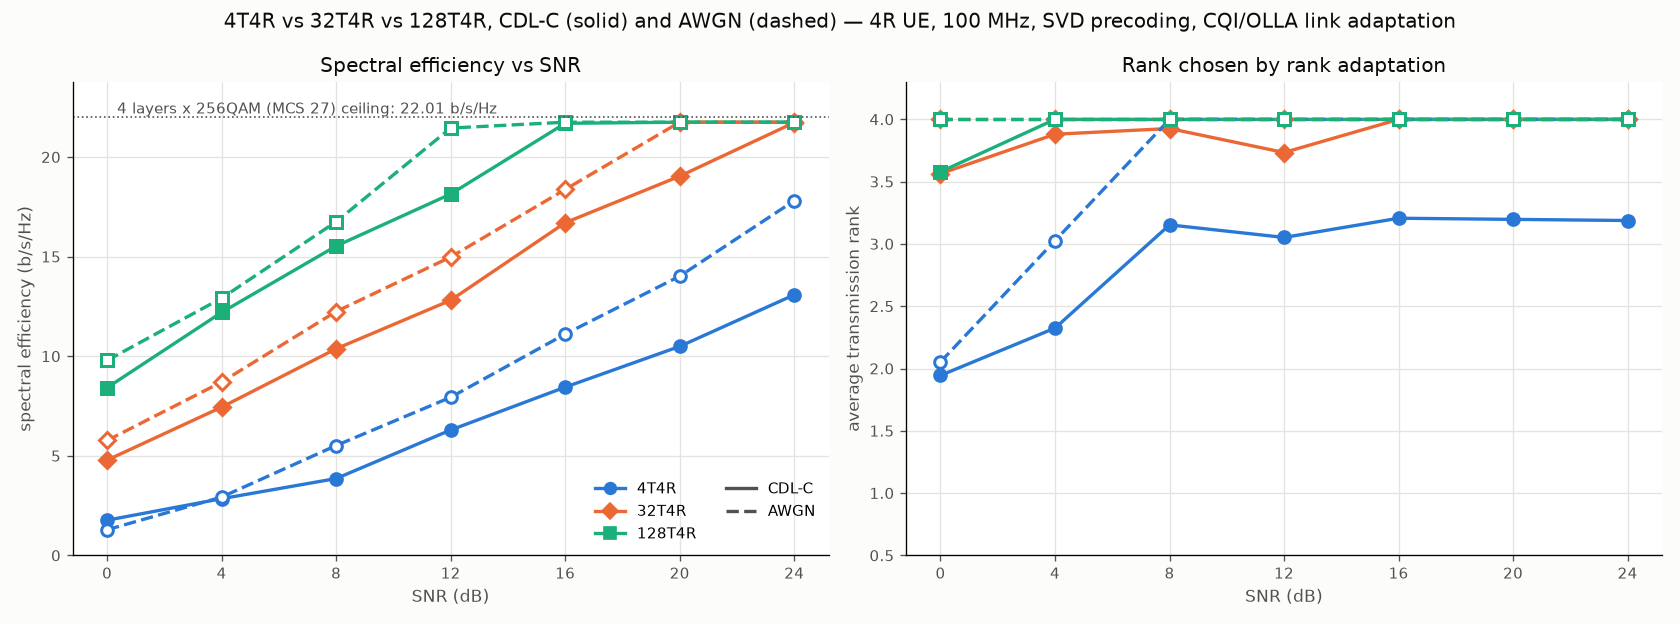
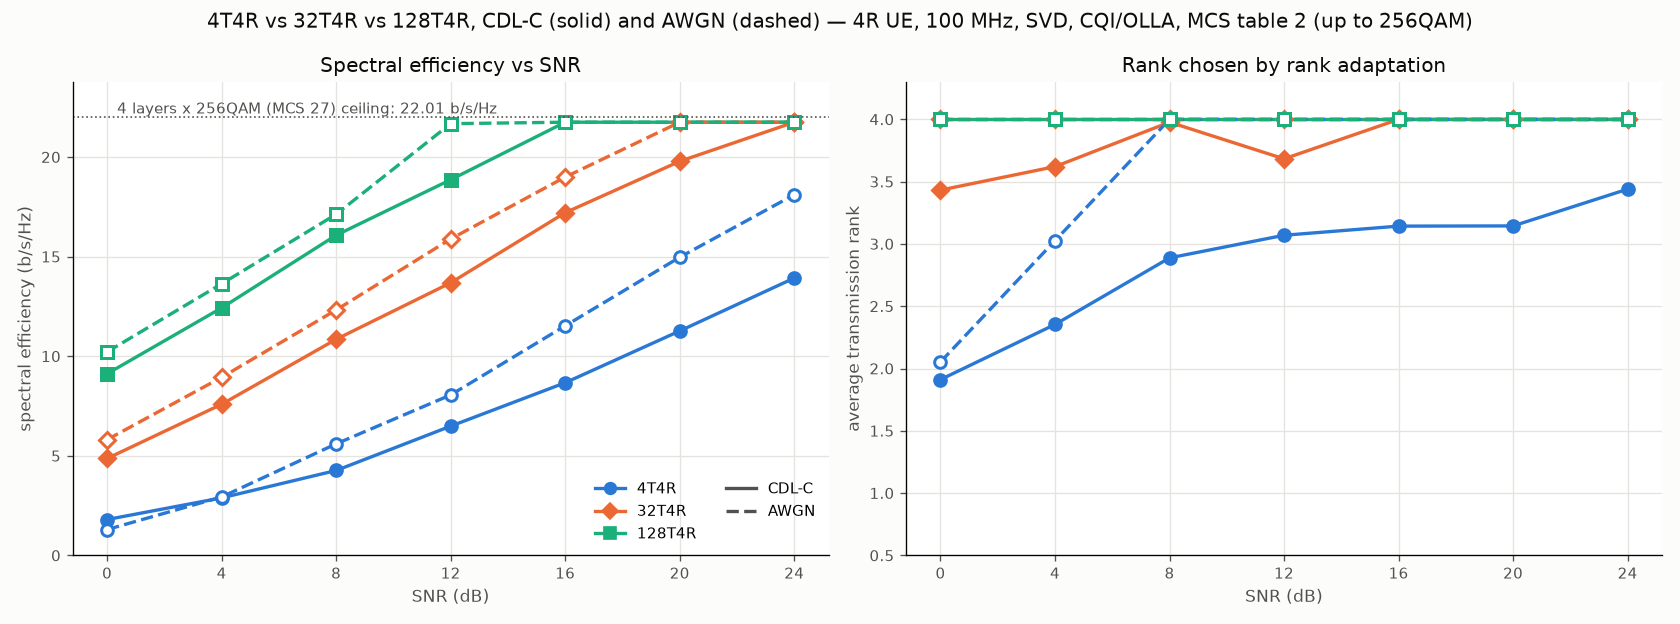
Regenerate the array-size SE figures and note what predates the change
results/array_size_se.png and array_size_se_1024qam.png are re-run with
the exact BICM capacity and the TS 38.211 bit labels (rendered with
matplotlib's default rc, like the committed figures). The SE moves by
0 to +10.6 % with MCS table 2 (mean +3.5 % CDL-C, +2.0 % AWGN) and by
-1.7 to +8.3 % with table 4 (mean +3.9 %, +2.7 %); the exact table alone
gives a mean of +0.0 to +1.0 %, so most of the change comes from the
labels. The order of the array sizes and the rank behaviour stay the
same.

README now says which outputs were regenerated and how much the others
should be expected to move. A rerun of fd_interleaving.py (32 PRB),
not committed, raises the SE by up to 7 % and keeps its interleaving
gains negligible (at most 0.04 % instead of 0.05 % of SE).

Claude-Session: https://claude.ai/code/session_017PSrAFGNHfZDXYCVZHg7hX

diff --git a/README.md b/README.md
@@ -269,6 +269,17 @@ TB BLER = 1 − Π(1 − BLER_cb)) lives in `nrdlsim/ldpc.py`,
 `nrdlsim/re_mapping.py` and `nrdlsim/link_abstraction.py`. The main
 simulator (`NRDownlinkSimulator`) still uses the single-waveform TB model.
 
+The link abstraction now uses the exact BICM capacity, and 64QAM and up the
+TS 38.211 (Gray) bit labels. The calibration, the example output above,
+`array_size_se*.png` and `codeword_mapping_study.png` were regenerated after
+these two changes; the other link-abstraction studies' outputs, and the numbers
+quoted in their write-ups, predate them. In the regenerated studies the SE moved
+by −2 % to +11 % (+2 to +4 % on average), mostly from the labels at the SNRs
+where 64QAM and up are used. Comparisons within a study moved less: the
+4-codeword gain of `codeword_mapping.py study` by at most 2 percentage points.
+A rerun of `fd_interleaving.py` (32 PRB) raises the SE by up to 7 % and leaves
+the interleaving gains negligible (at most 0.04 % of SE, against 0.05 %).
+
 ## Calibration against 3GPP / 5G-IA
 
 `examples/calibration_5gia.py` cross-checks the simulator (SNR at 70 %
